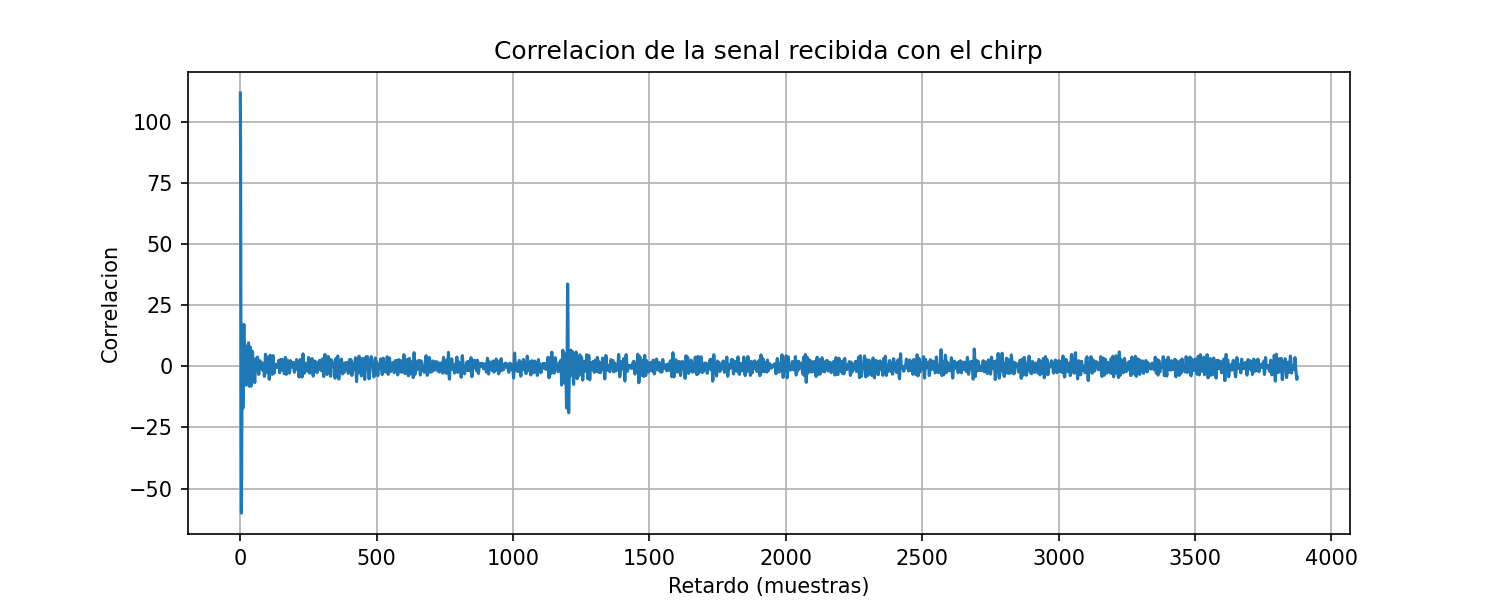
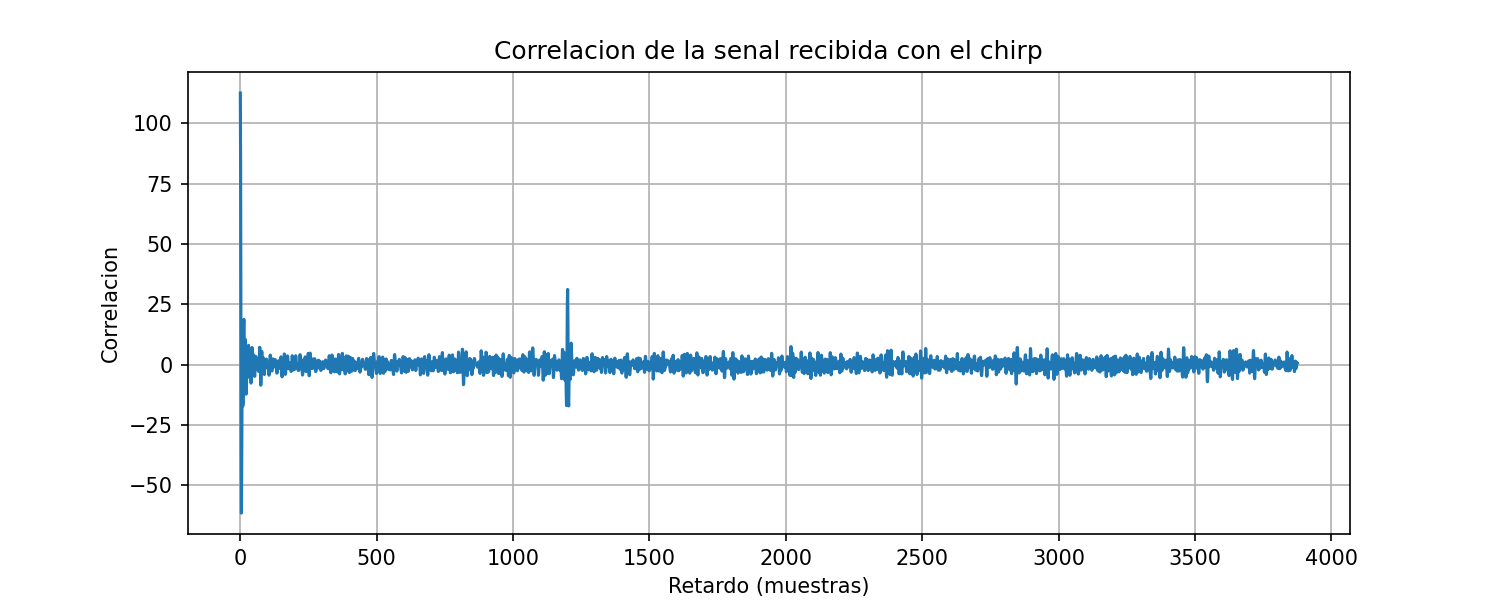
Implementar transformada inversa IDFT

diff --git a/proyecto_1/punto3/correlacion.py b/proyecto_1/punto3/correlacion.py
@@ -55,10 +55,10 @@ if __name__ == "__main__":
 
     r = correlacion(recibida, chirp)
 
-    pico = np.argmax(r)                 # np.argmax: posicion del valor maximo
+    retardo = retardo_desde_fuga(r, len(chirp))
     print(f"Retardo real:      {retardo_real} muestras")
-    print(f"Retardo detectado: {pico} muestras")
-    print(f"Distancia:         {calcular_distancia(pico):.3f} m")
+    print(f"Retardo detectado: {retardo} muestras")
+    print(f"Distancia:         {calcular_distancia(retardo):.3f} m")
 
     plt.figure(figsize=(10, 4))
     plt.plot(r)

diff --git a/proyecto_1/punto3/idft.py b/proyecto_1/punto3/idft.py
@@ -1,0 +1,14 @@
+import numpy as np
+
+
+# Entrada: X -- lista de N complejos en frecuencia
+# Salida: x -- lista de N complejos en el tiempo
+# Restriccion: ninguna sobre N
+def idft(X):
+    N = len(X)
+    x = np.zeros(N, dtype=complex)
+    for n in range(N):
+        for k in range(N):
+            # exponente positivo (sin el signo menos de la directa)
+            x[n] += X[k] * np.exp(2j * np.pi * k * n / N)
+    return x / N # division entre N
